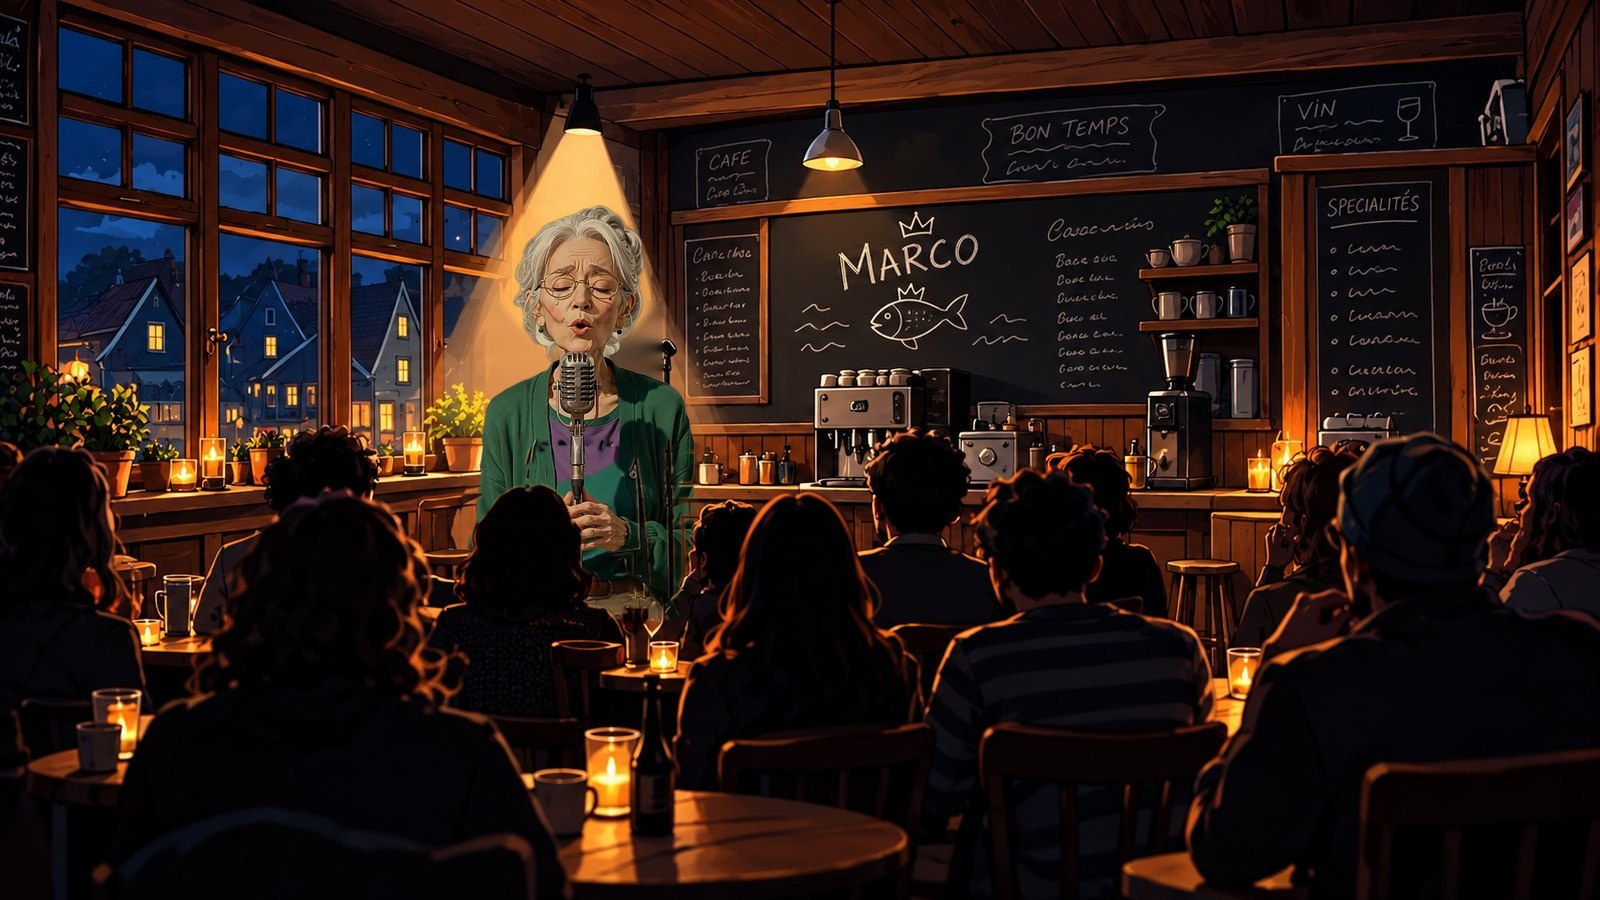
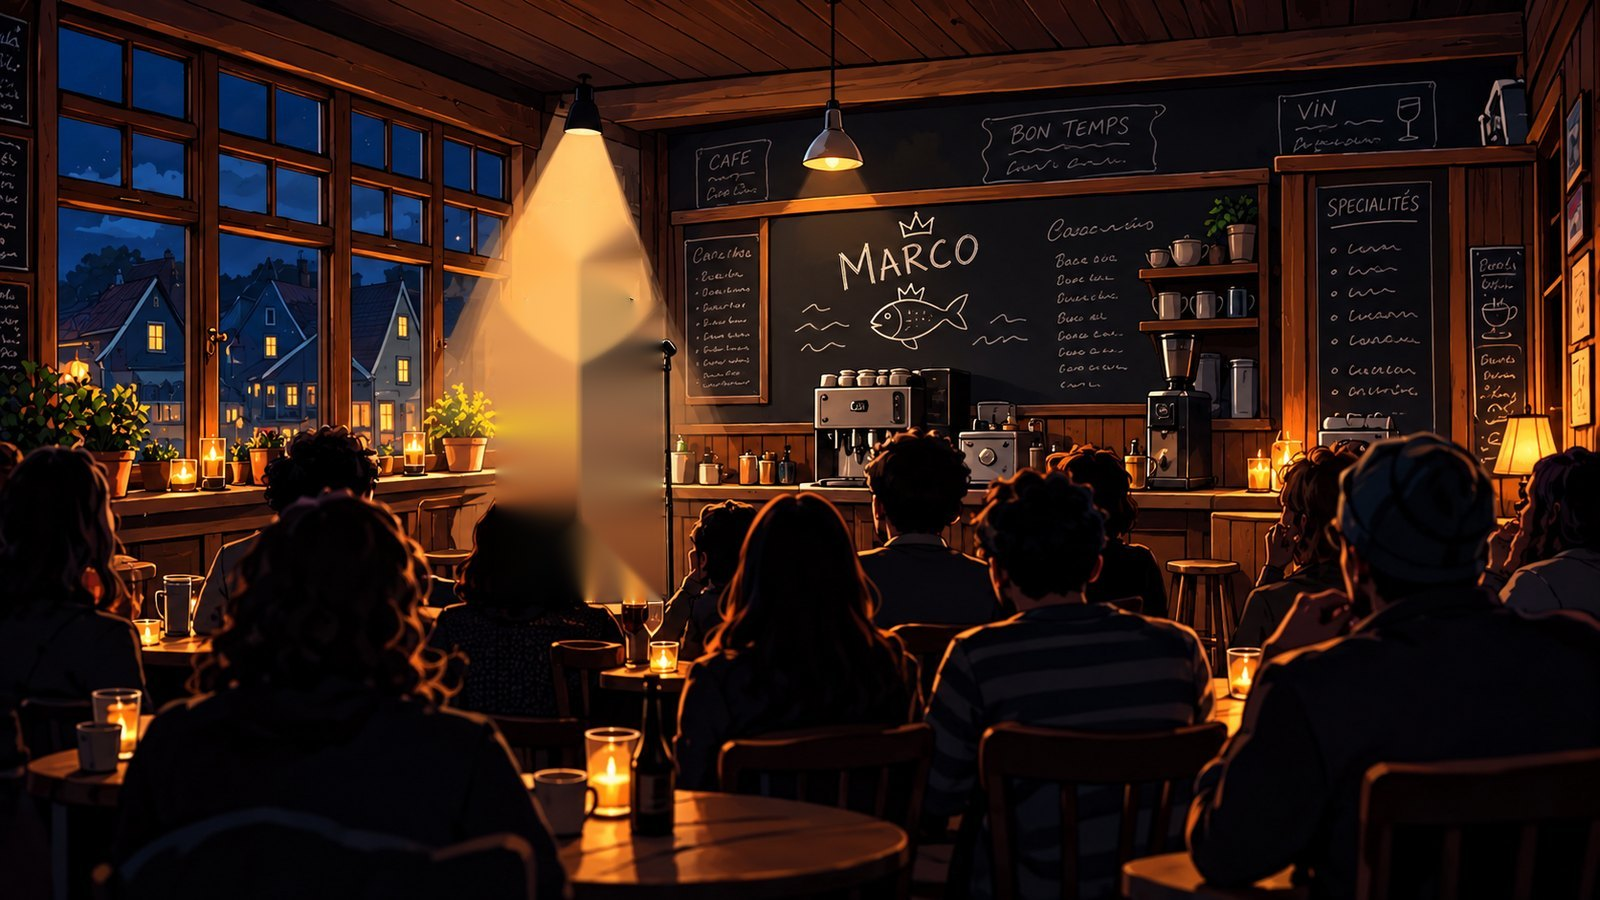
Thursday: Ingrid sings animated on the stage (frames from video), audience in front
Claude-Session: https://claude.ai/code/session_01PiQbiDdHzkNFQqS3tJ9L5K

Changed region(s): [[0.2812, 0.2178, 0.4375, 0.6844]]

diff --git a/js/moments.js b/js/moments.js
@@ -39,15 +39,40 @@
     { show: null }, outside
   ] });
 
-  /* Thursday: when she sings, she is on the little stage in the light, the room full in front of her */
+  /* Thursday: when she sings, she is on the little stage where Marco stood, in the light,
+     moving and singing (frames cut from a short video), with the audience in front of her */
+  const PIC = { w: 1600, h: 900 }, CELL = { n: 31, cols: 8, rows: 4, x: 463.4, y: 205, w: 233.2, h: 420.2 }, HEADS = { x: 380, y: 440, w: 420, h: 460 };
+  const pct = (v, of) => (v / of * 100) + '%';
+  let cine = null;
+  function singOn() {
+    singOff();
+    const sc = document.querySelector('#stage .scene'), bg = sc && sc.querySelector('.bg'); if (!bg) return null;
+    const box = el('div', 'sing-cine');
+    const fit = () => { const W = sc.clientWidth, H = sc.clientHeight, k = Math.max(W / PIC.w, H / PIC.h); box.style.width = PIC.w * k + 'px'; box.style.height = PIC.h * k + 'px'; };
+    const f = el('div', 'sing-frames'), hd = el('img', 'sing-heads');
+    Object.assign(f.style, { left: pct(CELL.x, PIC.w), top: pct(CELL.y, PIC.h), width: pct(CELL.w, PIC.w), height: pct(CELL.h, PIC.h), backgroundSize: `${CELL.cols * 100}% ${CELL.rows * 100}%` });
+    hd.src = 'img/fx/cafe-heads.webp'; hd.alt = '';
+    Object.assign(hd.style, { left: pct(HEADS.x, PIC.w), top: pct(HEADS.y, PIC.h), width: pct(HEADS.w, PIC.w), height: pct(HEADS.h, PIC.h) });
+    box.append(f, hd); bg.after(box); fit();
+    /* forwards, then backwards, twelve frames a second: she never jumps */
+    let i = 0, d = 1, t0 = 0, raf = 0; const still = matchMedia('(prefers-reduced-motion: reduce)').matches;
+    const show = k => { f.style.backgroundPosition = `${(k % CELL.cols) / (CELL.cols - 1) * 100}% ${Math.floor(k / CELL.cols) / (CELL.rows - 1) * 100}%`; };
+    const tick = t => { if (!cine) return; if (t - t0 > 83) { t0 = t; i += d; if (i >= CELL.n - 1 || i <= 0) d = -d; show(i); } raf = requestAnimationFrame(tick); };
+    show(still ? 22 : 0); if (!still) raf = requestAnimationFrame(tick);
+    addEventListener('resize', fit);
+    cine = { box, stop: () => { cancelAnimationFrame(raf); removeEventListener('resize', fit); box.remove(); } };
+    return null;
+  }
+  function singOff() { if (cine) { const c = cine; cine = null; c.stop(); } return null; }
   const sing0 = GAME.SCRIPTS.ingridSings;
   if (sing0) GAME.SCRIPTS.ingridSings = s => {
     const steps = sing0(s), i = steps.findIndex(st => st && st.n && /Then she sings/.test(st.n.en));
     if (i < 0) return steps;
-    steps.splice(i, 0, () => { VIEW.bgOver = Object.assign({}, VIEW.bgOver, { cafe: 'cafe_sing' }); return null; }, { show: [] });
-    steps.splice(i + 3, 0, () => { if (VIEW.bgOver) delete VIEW.bgOver.cafe; return null; }, { show: [{ id: 'ingrid', e: 'neutral' }, { id: 'marco', e: 'smile' }] });
+    steps.splice(i, 0, () => { VIEW.bgOver = Object.assign({}, VIEW.bgOver, { cafe: 'cafe_sing' }); return null; }, { show: [] }, () => { setTimeout(singOn, 60); return null; });
+    steps.splice(i + 4, 0, singOff, () => { if (VIEW.bgOver) delete VIEW.bgOver.cafe; return null; }, { show: [{ id: 'ingrid', e: 'neutral' }, { id: 'marco', e: 'smile' }] });
     return steps;
   };
+  window.__sing = { on: singOn, off: singOff };
 
   const chat = (who, line) => { const c = GAME.CHAR[who]; if (c) { c.chat = c.chat || []; c.chat.unshift(line); } };
   chat('ingrid', { if: s => s.f.ingRehearse === 'heard' && !s.f.ingridSang, e: 'smile', t: T('Front row, Thursday. You promised. Well, I promised for you.', 'الصف الأول، الخميس. {وعدت|وعدتي}. يعني، أنا وعدت عنك.') });

diff --git a/css/game.css b/css/game.css
@@ -1138,3 +1138,8 @@ html[lang=ar] .jn-photo p{font-family:var(--f-ar-ui);font-size:14px}
 .tl-frames{width:100%;height:100%;background-repeat:no-repeat;background-position:0 0}
 @keyframes tlStep{to{background-position:var(--end) 0}}
 @media (prefers-reduced-motion:reduce){.tl-bub{transition:none}}
+
+/* moments.js: Ingrid singing on the café stage */
+.sing-cine{position:absolute;left:50%;top:50%;transform:translate(-50%,-50%);pointer-events:none;z-index:0}
+.sing-frames{position:absolute;background:url(../img/fx/ingrid-sing.webp) no-repeat 0 0}
+.sing-heads{position:absolute;display:block}
